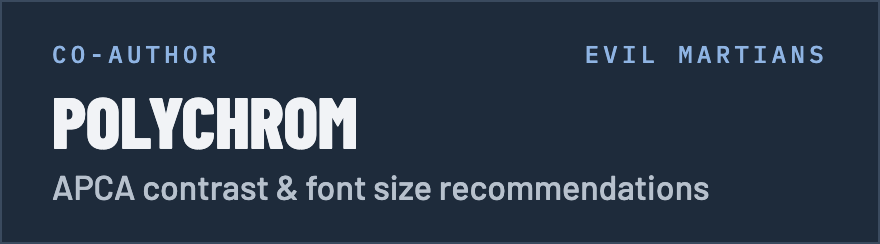
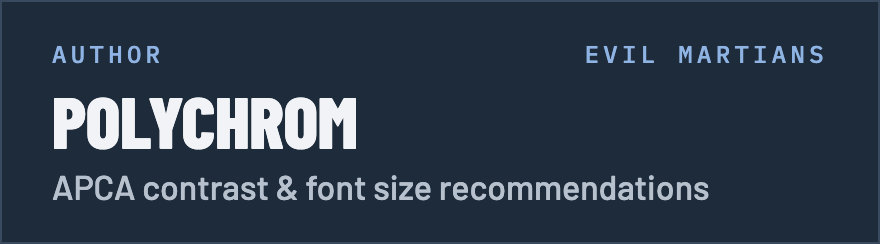
Restore all eleven articles, credit Polychrom as author

Changed region(s): [[0.0614, 0.1721, 0.2455, 0.2582]]

diff --git a/README.md b/README.md
@@ -28,7 +28,7 @@ Lately my job looks less like frontend engineering and more like being someone's
 <a href="https://heyapi.dev/openapi-ts/plugins/nest"><picture><source media="(prefers-color-scheme: dark)" srcset="assets/oss-heyapi-dark.png"><img src="assets/oss-heyapi-light.png" alt="NestJS plugin for Hey API — type-safe controller signatures from OpenAPI" width="49.7%"></picture></a>
 <a href="https://github.com/evilmartians/figma-polychrom"><picture><source media="(prefers-color-scheme: dark)" srcset="assets/oss-polychrom-dark.png"><img src="assets/oss-polychrom-light.png" alt="Polychrom — APCA contrast and font size recommendations" width="49.7%"></picture></a>
 
-## Featured articles
+## Articles
 
 <a href="https://evilmartians.com/chronicles/ten-anti-ai-slop-moves-for-frontend-projects-going-faster-than-humans-can-review"><img src="https://evilmartians.com/social-cards/chronicles/ten-anti-ai-slop-moves-for-frontend-projects-going-faster-than-humans-can-review.jpg" alt="10 anti-AI slop moves for frontend projects going faster than humans can review" width="100%"></a>
 <a href="https://evilmartians.com/chronicles/openapi-nestjs-type-safe-controllers-from-the-contract"><img src="https://evilmartians.com/social-cards/chronicles/openapi-nestjs-type-safe-controllers-from-the-contract.jpg" alt="OpenAPI + NestJS: type-safe controllers from the contract" width="49.7%"></a>
@@ -36,4 +36,8 @@ Lately my job looks less like frontend engineering and more like being someone's
 <a href="https://evilmartians.com/chronicles/lifes-too-short-to-hand-write-api-types-openapi-driven-react"><img src="https://evilmartians.com/social-cards/chronicles/lifes-too-short-to-hand-write-api-types-openapi-driven-react.jpg" alt="Life's too short to hand-write API types: OpenAPI-driven React" width="49.7%"></a>
 <a href="https://evilmartians.com/chronicles/contract-shock-therapy-the-way-to-api-first-documentation-bliss"><img src="https://evilmartians.com/social-cards/chronicles/contract-shock-therapy-the-way-to-api-first-documentation-bliss.jpg" alt="Contract shock therapy: the way to API-first documentation bliss" width="49.7%"></a>
 <a href="https://evilmartians.com/chronicles/api-contracts-and-everything-i-wish-i-knew-a-frontend-survival-guide"><img src="https://evilmartians.com/social-cards/chronicles/api-contracts-and-everything-i-wish-i-knew-a-frontend-survival-guide.jpg" alt="API contracts and everything I wish I knew: a frontend survival guide" width="49.7%"></a>
+<a href="https://evilmartians.com/chronicles/the-lions-den-nest-js-and-authentication-with-aws-cognito"><img src="https://evilmartians.com/social-cards/chronicles/the-lions-den-nest-js-and-authentication-with-aws-cognito.jpg" alt="The lion's den: NestJS and authentication with AWS Cognito" width="49.7%"></a>
+<a href="https://evilmartians.com/chronicles/how-to-manifest-streamlined-authentication-aws-cognito-in-a-react-app"><img src="https://evilmartians.com/social-cards/chronicles/how-to-manifest-streamlined-authentication-aws-cognito-in-a-react-app.jpg" alt="How to manifest streamlined authentication: AWS Cognito in a React app" width="49.7%"></a>
 <a href="https://evilmartians.com/chronicles/figma-plugin-api-dive-into-advanced-algorithms-and-data-structures"><img src="https://evilmartians.com/social-cards/chronicles/figma-plugin-api-dive-into-advanced-algorithms-and-data-structures.jpg" alt="Figma plugin API: diving into advanced algorithms &amp; data structures" width="49.7%"></a>
+<a href="https://evilmartians.com/chronicles/figma-plugin-magic-tricks-mixing-colors-with-svg-and-canvas-api"><img src="https://evilmartians.com/social-cards/chronicles/figma-plugin-magic-tricks-mixing-colors-with-svg-and-canvas-api.jpg" alt="Figma plugin magic tricks: mixing colors with SVG and Canvas API" width="49.7%"></a>
+<a href="https://evilmartians.com/chronicles/dont-wait-lets-use-browser-contact-picker-api-now"><img src="https://evilmartians.com/social-cards/chronicles/dont-wait-lets-use-browser-contact-picker-api-now.jpg" alt="Don't wait, let's use the browser Contact Picker API now" width="49.7%"></a>
